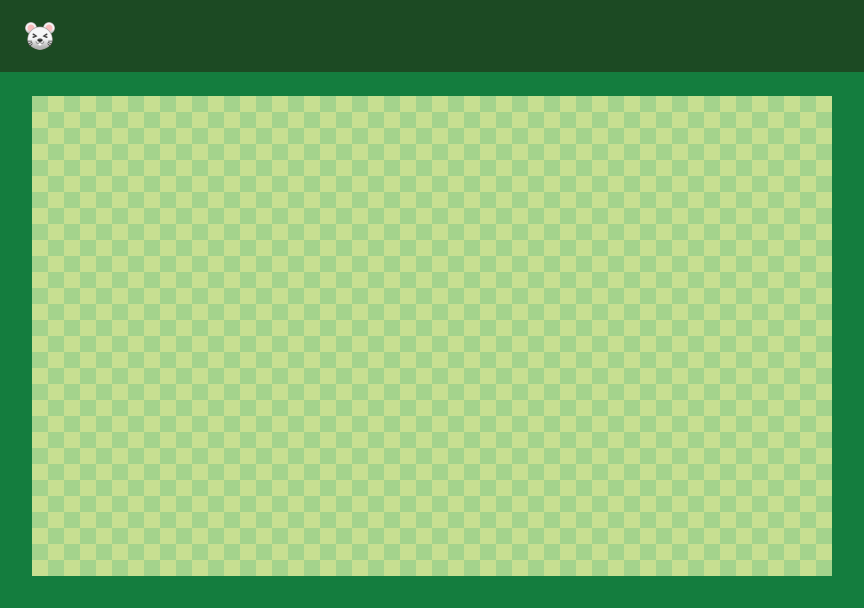
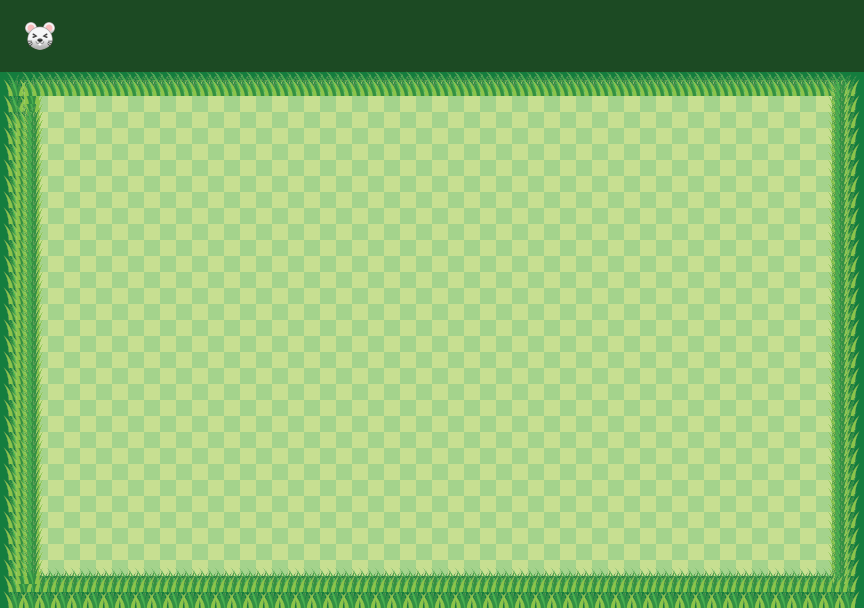
Новое поле и трава

Changed region(s): [[0.0, 0.125, 1.0, 1.0]]

diff --git a/game/game.js b/game/game.js
@@ -11,6 +11,9 @@ ground.src = "gameAssets/ground.png";
 const mouseImg = new Image();
 mouseImg.src = "gameAssets/mouse.png";
 
+const grassImg = new Image();
+grassImg.src ="gameAssets/grass.png";
+
 
 / Пиксели одной ячейки поли /
 let box = 16;
@@ -23,6 +26,7 @@ let mouse = {
 	x: Math.floor((Math.random() * 50 + 2)) * box,
 	y: Math.floor((Math.random() * 30 + 6)) * box, 
 };
+
 / Координаты воды /
 let water = [];
 const WaterCount = 5;
@@ -33,9 +37,19 @@ for(let i =0 ; i < WaterCount; i++){
 		y: Math.floor((Math.random() * 25 + 6)) * box, 
 	};
 }
-for(let i = 0 ; i < WaterCount ; i++){
-		console.log(water[i].x , water[i].y );
-};
+
+
+/ Координаты травы /
+let grass = [];
+const grassCount = 10;
+const grassS = 5;
+for(let i =0 ; i < grassCount; i++){
+	grass[i] = {
+		x: Math.floor((Math.random() * 46 + 2)) * box,
+		y: Math.floor((Math.random() * 26 + 6)) * box, 
+	};
+}
+
 
 / Начало змеи в центре поля /
 let snake = [];
@@ -89,13 +103,15 @@ function drawGame() {
 	
 	/ Вода  /
 	var gradient = ctx.createLinearGradient(32,96, 832,96);
-
-	
 	gradient.addColorStop(0, '#14557b');
 	gradient.addColorStop(1, '#7fcec5');
 	for (var i = 0; i < WaterCount ; i++) {
 		ctx.fillStyle = gradient;
-		ctx.fillRect( water[i].x , water[i].y , box*WaterS, box*WaterS);
+		ctx.fillRect(water[i].x , water[i].y , box *WaterS, box *WaterS);
+	}
+	/ Трава /
+	for (var i = 0; i < grassCount ; i++) {
+		ctx.drawImage(grassImg , grass[i].x , grass[i].y);
 	}
 	
 	/ Змея /
